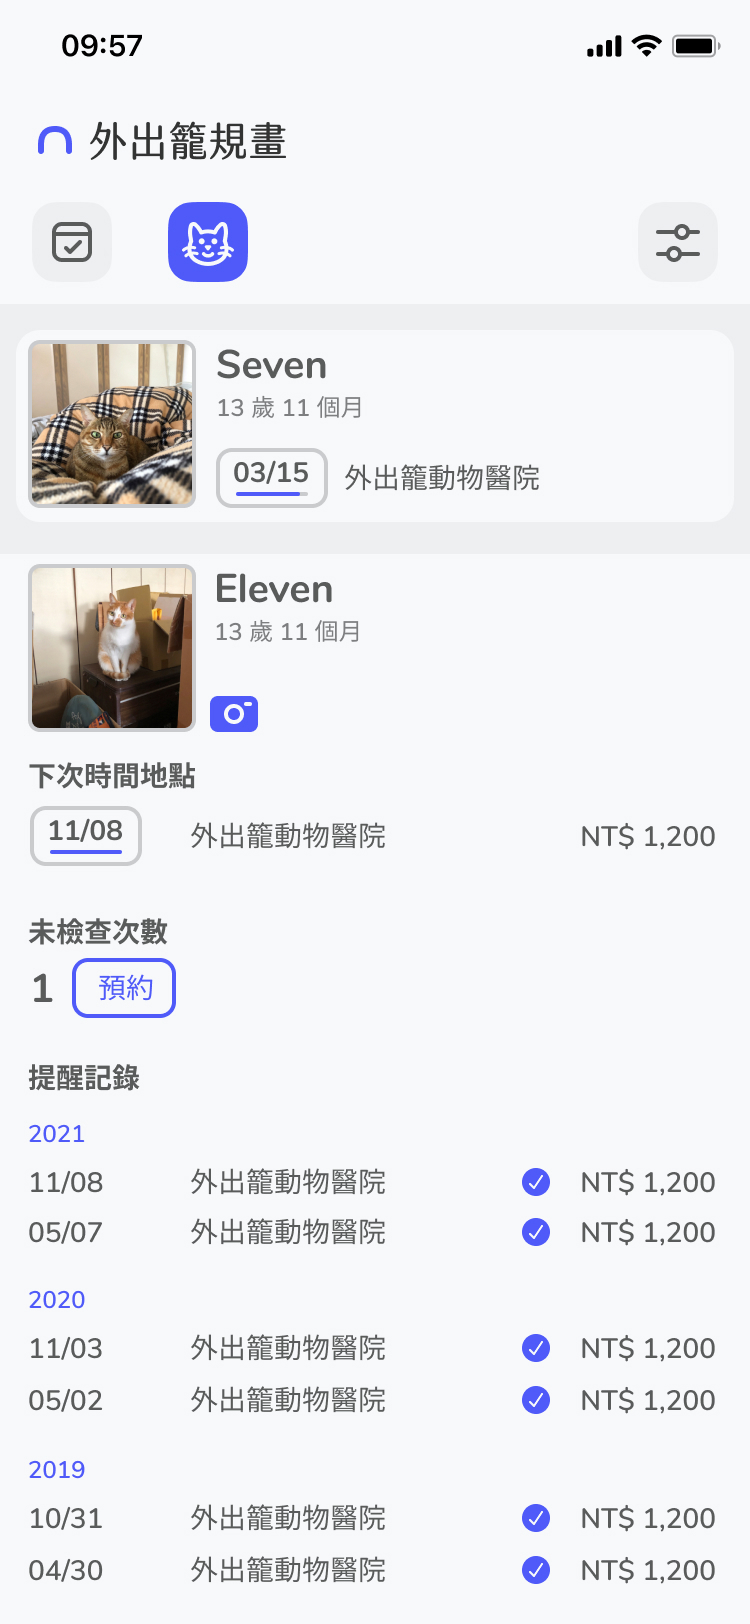
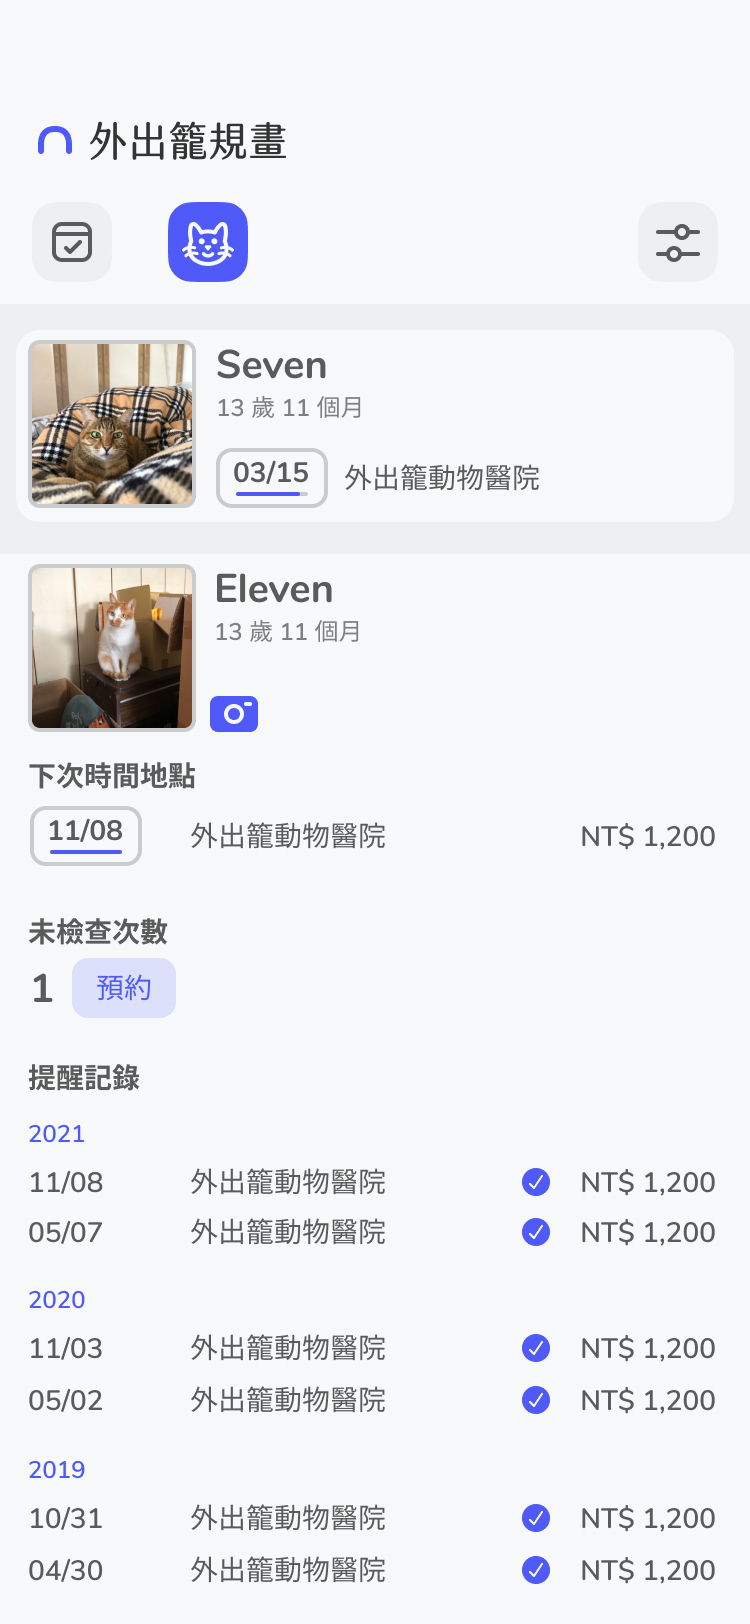
Update wording and screenshots

Changed region(s): [[0.092, 0.585, 0.2453, 0.6466], [0.7973, 0.0, 0.9507, 0.0616], [0.092, 0.0, 0.184, 0.0308]]

diff --git a/projects/carrier/Cover.tsx b/projects/carrier/Cover.tsx
@@ -39,12 +39,12 @@ export default function Cover() {
     <Wrap project="carrier">
       <Device responsive={{ '@initial': 'mobile' }} vpheight="iphone13" model={{ '@m768': 'mobileDual' }}>
         {mounted && screenMobile &&
-          <ScreenshotMobile src="/projects/carrier/cover/tasks.webp" width={256} height={554} quality={95} alt="Screenshot: Clock-In" />
+          <ScreenshotMobile src="/projects/carrier/cover/tasks.webp" width={256} height={554} quality={95} alt="Screenshot: Upcoming Health Checks" />
         }
         {screenTablet &&
           <>
-            <ScreenshotTablet src="/projects/carrier/cover/tasks.jpg" placement="left" alt="Screenshot: Clock-In" />
-            <ScreenshotTablet src="/projects/carrier/cover/furbuddiesShow.jpg" placement="right" alt="Screenshot: Received and Applying Forms" />
+            <ScreenshotTablet src="/projects/carrier/cover/tasks.jpg" placement="left" alt="Screenshot: Upcoming Health Checks" />
+            <ScreenshotTablet src="/projects/carrier/cover/furbuddiesShow.jpg" placement="right" alt="Screenshot: View the details of Eleven" />
           </>
         }
       </Device>
